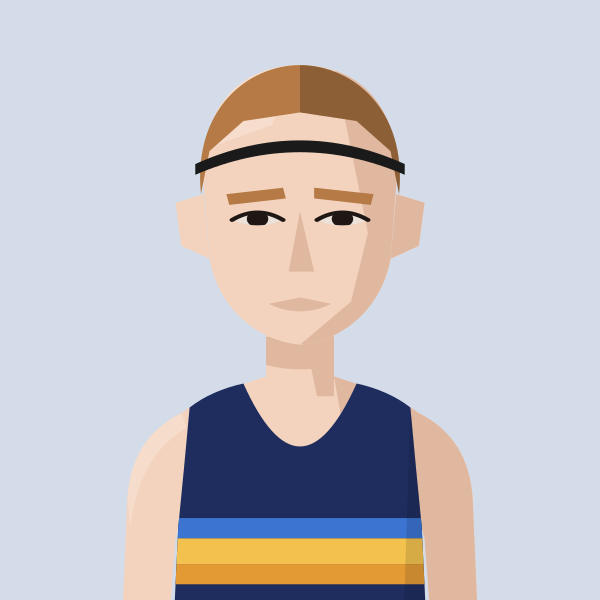
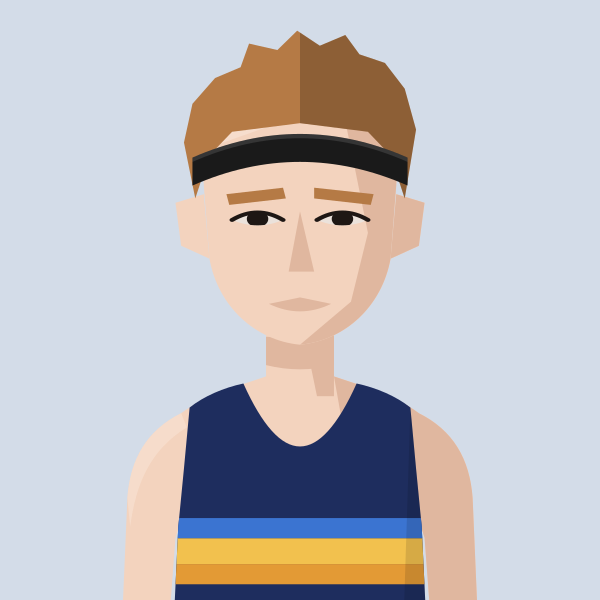
Ralph Street: thicker headband with tousled hair above it
Claude-Session: https://claude.ai/code/session_01MgmDWhFqnSSnP4iBLKXUZC

Changed region(s): [[0.3, 0.03, 0.69, 0.33]]

diff --git a/files/index.html b/files/index.html
@@ -579,7 +579,7 @@ return m;})();
 const portraitFile=(name,club)=>{const k=normalizeNameForCompare(name||'').replace(/\s*\([^)]*\)$/,'');const a=PORTRAITS[k];if(a&&a.club===club)return a.file;const b=PORTRAITS[k+'@'+club];return b?b.file:null;};
 // Athlete header figure: superstar portrait if we have one, else a grey runner in the club vest, else the plain vest icon
 // Changes whenever any portrait changes (set by tools/build_og.py), so browsers fetch fresh images instead of old cached ones
-const PORTRAIT_V='76e0b55c';
+const PORTRAIT_V='02ae3e30';
 const AthletePortrait=({name,club,w,fill,onClick})=>{const[failed,setFailed]=useState(false);const file=portraitFile(name,club);const src=file?`/portraits/athletes/${file}.svg?v=${PORTRAIT_V}`:PORTRAIT_CLUBS.has(club)?`/portraits/clubs/${club.replace(/\//g,'').replace(/&/g,'and')}.svg?v=${PORTRAIT_V}`:null;if(!src||failed)return<div onClick={onClick} className={onClick?'cursor-pointer':''}><ClubShield club={club} size={w}/></div>;const h=Math.round(w*148/126),ih=Math.round(w*1.4);if(fill)return<div onClick={onClick} className="cursor-pointer" style={{alignSelf:'stretch',minHeight:h,aspectRatio:'126 / 148',flexShrink:0,position:'relative',borderRadius:4,overflow:'hidden'}}><img src={src} alt={file?`Portrait of ${name.replace(/\s*\([^)]*\)$/,'')}`:`Runner in ${CLUBS[club]?.name||club} vest`} style={{position:'absolute',top:0,left:0,display:'block',width:'100%',height:'auto'}} onError={()=>setFailed(true)}/></div>;return<div style={{width:w,height:h,borderRadius:4,overflow:'hidden',flexShrink:0}}><img src={src} alt={file?`Portrait of ${name.replace(/\s*\([^)]*\)$/,'')}`:`Runner in ${CLUBS[club]?.name||club} vest`} width={w} height={ih} style={{display:'block',width:w,height:ih}} onError={()=>setFailed(true)}/></div>;};
 const getClubVestSvg=(club)=>{
   const p="M3 0 L6 0 Q7 4 10 5 Q13 4 14 0 L17 0 L17 20 L3 20 Z";

diff --git a/tools/gen_portraits.py b/tools/gen_portraits.py
@@ -147,7 +147,7 @@ FACIAL = {
 def _eyewhite(sk):  # an off-white, tinted towards the skin so it never glares
     return '#' + ''.join(f'{round(int(sk[i:i+2],16)*0.3+0xE8*0.7):02X}' for i in (1,3,5))
 
-def figure(kit, mode="custom", skin=1, hair="crop", hair_colour="dark brown", facial=None, cap=None, shades=False, tattoos=False, beanie=None, mud=False, glasses=False, roots=None, stars=0, gaunt=False, greying=False, headband=None, cap_back=False, facial_colour=None, tag="f", shades_col=None, shades_up=False, scrunchie=None, crown=False, jacket=None, medal=None, temples=False, cleft=False, brow_colour=None, jacket_marks=None, define=None, frown=False, hood=None, puffy=False, creases=False, necklace=None, shades_frame="#F4F4F2", thin_brows=False):
+def figure(kit, mode="custom", skin=1, hair="crop", hair_colour="dark brown", facial=None, cap=None, shades=False, tattoos=False, beanie=None, mud=False, glasses=False, roots=None, stars=0, gaunt=False, greying=False, headband=None, cap_back=False, facial_colour=None, tag="f", shades_col=None, shades_up=False, scrunchie=None, crown=False, jacket=None, medal=None, temples=False, cleft=False, brow_colour=None, jacket_marks=None, define=None, frown=False, hood=None, puffy=False, creases=False, necklace=None, shades_frame="#F4F4F2", thin_brows=False, headband_thick=False):
     primary, extras, ground = KITS[kit]
     line = mode == "outline"
     if mode == "custom": sk, dk, lt = SKIN[skin]
@@ -241,7 +241,7 @@ def figure(kit, mode="custom", skin=1, hair="crop", hair_colour="dark brown", fa
             if temples:  # grey at the temples
                 hg.append(f'<clipPath id="ht{tag}">{HAIR[hair]}</clipPath><g clip-path="url(#ht{tag})" fill="#9C948A" opacity=".8"><path d="M56,80 L73,77 L72,106 L56,106 Z"/><path d="M144,80 L127,77 L128,106 L144,106 Z"/></g>')
             if headband:  # thin sports headband across the hairline
-                hg.append(f'<path d="M63,86 Q100,64 137,86 L137,91 Q100,70 63,91 Z" fill="{headband}"/>')
+                hg.append(f'<path d="M62,83 Q100,61 138,83 L138,96 Q100,74 62,96 Z" fill="{headband}"/><path d="M62,83 Q100,61 138,83 L138,85 Q100,63 62,85 Z" fill="#fff" opacity=".12"/>' if headband_thick else f'<path d="M63,86 Q100,64 137,86 L137,91 Q100,70 63,91 Z" fill="{headband}"/>')
             if roots and hair == "curtains":
                 hg.append(f'<clipPath id="hr{tag}">{HAIR["curtains"]}</clipPath><path clip-path="url(#hr{tag})" d="M56,84 C52,50 76,28 100,28 C124,28 148,50 144,84 C132,58 116,48 104,52 L101,60 L99,60 L96,52 C84,48 68,58 56,84 Z" fill="{HAIR_COL.get(roots, roots)}"/>')
             if hair == "ponytail":
@@ -668,4 +668,4 @@ save("callum-stewart", figure("BEL", skin=1, hair="quiff", hair_colour="#2A1E19"
 save("jamie-parkinson", figure("THH", skin=1, hair="messyfringe", hair_colour="#3A2A22"))
 save("phil-sesemann", figure("KEN", skin=2, hair="shortcurls", hair_colour="#2E211B"))
 save("andy-coley-maud-cc", figure("C/C", skin=1, hair="quiffrecede", hair_colour="#6B4A2E"))
-save("ralph-street", figure("RAN", skin=1, hair="crop", hair_colour="#B57A45", headband="#1A1A1A"))
+save("ralph-street", figure("RAN", skin=1, hair="tousled", hair_colour="#B57A45", headband="#1A1A1A", headband_thick=True))
